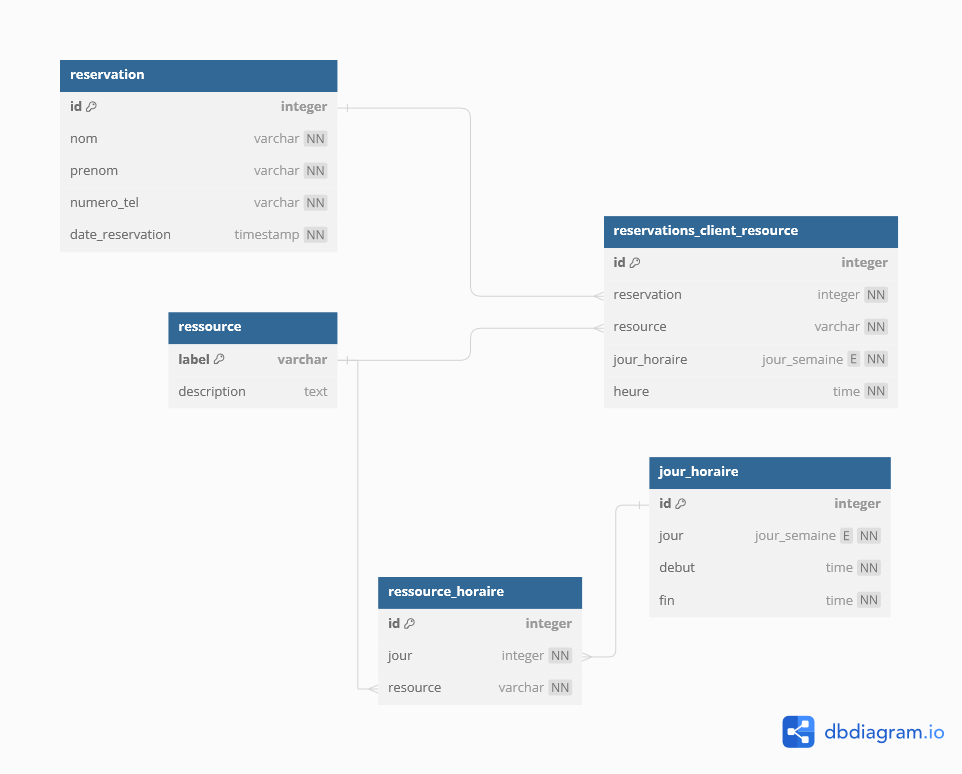
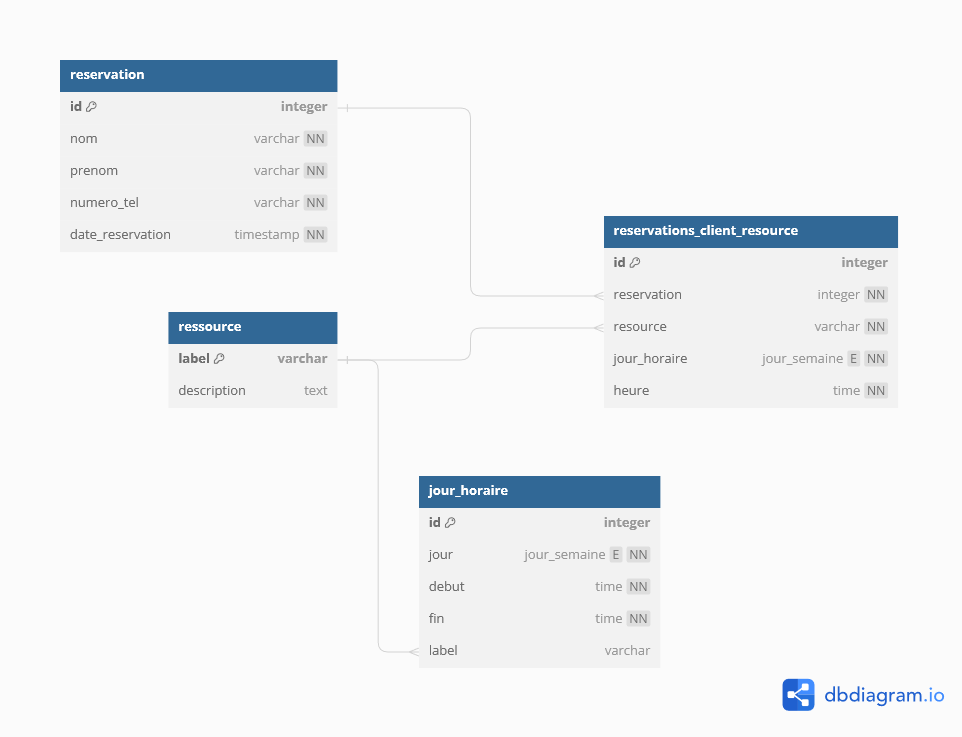
Ajout récup horaire depuis API et update DB et remplissage horaire ressource fait

diff --git a/projet/api/server.py b/projet/api/server.py
@@ -1,4 +1,5 @@
 from fastapi import FastAPI, status
+from fastapi.encoders import jsonable_encoder
 from fastapi.middleware.cors import CORSMiddleware
 from fastapi.responses import JSONResponse
 from pydantic import BaseModel
@@ -32,6 +33,88 @@ app.add_middleware(
     allow_headers=["*"],
 )
 
+from configparser import ConfigParser
+
+# https://www.postgresqltutorial.com/postgresql-python/connect/
+def load_config(filename='database.ini', section='postgresql'):
+    parser = ConfigParser()
+    parser.read(filename)
+
+    # get section, default to postgresql
+    config = {}
+    if parser.has_section(section):
+        params = parser.items(section)
+        for param in params:
+            config[param[0]] = param[1]
+    else:
+        raise Exception('Section {0} not found in the {1} file'.format(section, filename))
+
+    return config
+
+
+
+from sqlalchemy import Column, ForeignKey, Time, create_engine
+from sqlalchemy.engine import URL
+
+config = load_config()
+
+url = URL.create(
+    drivername="postgresql",
+    username=config["user"],
+    host='db',
+    database=config["database"],
+    password=config["password"],
+    port=config["port"]
+)
+
+engine = create_engine(url)
+
+
+
+# https://coderpad.io/blog/development/sqlalchemy-with-postgresql/
+from sqlalchemy.orm import declarative_base
+from sqlalchemy import Column, Integer, String, DateTime, Text, VARCHAR,Enum
+
+import enum
+
+Base = declarative_base()
+
+
+class Jours_Semaine(enum.Enum):
+    lundi = 0
+    mardi = 1
+    mercredi = 2
+    jeudi = 3
+    vendredi = 4
+    samedi = 5
+    dimanche = 6
+
+class Ressource(Base):
+    __tablename__ = 'ressource'
+
+    label = Column(VARCHAR(),primary_key=True)
+    description = Column(Text(),nullable=True)
+
+class Jour_Horaire(Base):
+    __tablename__ = 'jour_horaire'
+
+    id = Column(Integer(),primary_key=True,autoincrement="auto")
+    jour = Column(Enum(Jours_Semaine),nullable=False)
+    debut = Column(Time(),nullable=False)
+    fin = Column(Time(),nullable=False)
+    label = Column(VARCHAR(),ForeignKey('ressource.label'),nullable=True)
+
+from sqlalchemy.orm import sessionmaker
+
+Session = sessionmaker(bind=engine)
+session = Session()
+
+@app.get("/get-horaires/{ressource_label}")
+async def get_horaires_for_ressource(ressource_label: str):
+    query = session.query(Jour_Horaire).where(Jour_Horaire.label.like(ressource_label)).all()
+    print(query)
+    return JSONResponse(content=jsonable_encoder(query),status_code=status.HTTP_200_OK)
+
 @app.post("/test-nlu")
 async def test_nlu_rasa(data:Test_rasa_nlu):
     headers = {"Content-Type": "application/json"}
@@ -49,4 +132,4 @@ async def talk_to_rasa(data:Communicate_Rasa):
         return JSONResponse(content=response.json(),status_code=status.HTTP_200_OK)
 
 if __name__ == "__main__":
-    uvicorn.run("server:app", host="0.0.0.0" , port=5500, log_level="info",reload = True,workers=4)
+    uvicorn.run("server:app", host="0.0.0.0" , port=5500, log_level="info",reload = True,workers=4,reload_dirs=["/app"],reload_excludes=["/app/.venv"])

diff --git a/projet/db/scripts/data_insert.py b/projet/db/scripts/data_insert.py
@@ -78,7 +78,7 @@ def update_sql_script():
                     col_string+=col+","
                 col_string = col_string.removesuffix(",")
             total_string+=f"COPY {table_name}({col_string})\nFROM '/data/{file}'\nWITH (FORMAT csv, HEADER);"
-    
+
         # COPY jour_horaire(jour,debut,fin)
         # FROM '/data/horaire.csv'
         # WITH (FORMAT csv, HEADER);
@@ -86,8 +86,6 @@ def update_sql_script():
             f.write(total_string)
     except Exception as e:
         print(f"Error while updating SQL script: {e}")
-        
-
 
 def execute_script():
     try:
@@ -113,7 +111,7 @@ if __name__ == "__main__":
     # S'assurer que les en-têtes dans les fichiers CSV sont les mêmes que dans la table et dans le même ordre
     script_path = os.path.dirname(os.path.realpath(__file__))
 
-    process_csv("horaire.csv","jour_horaire","title_ressource")
     process_csv("ressource.csv","ressource")
+    process_csv("horaire.csv","jour_horaire")
     update_sql_script()
     execute_script()
